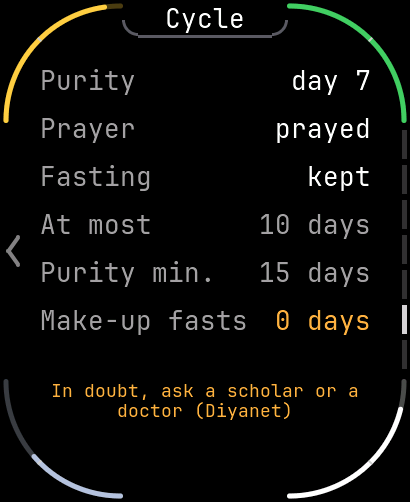
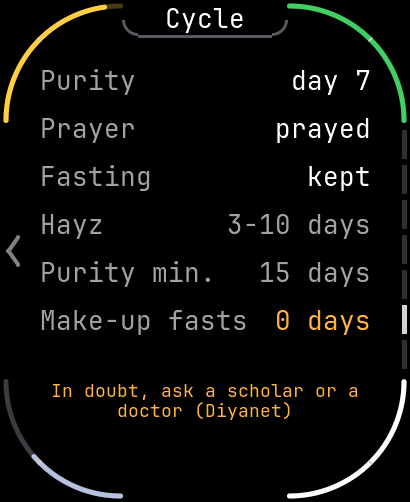
Fix the cycle page's open minors
- Adolescent mode: no intercourse marks on the spiral and the calendar,
  the legend's first four rows only.
- The spiral names 90+ days without a period in place of the pad hint.
- Hayız part: one row "Hayz 3-10 days" (the shortest was missing).
- A wrong or unrepeated PIN shows "Wrong PIN" until the next key.
- The face's cycle icon is drawn again when the period's days or the
  fertile window change, not only its start.
- The screenshots' scene no longer saves its cycle log over the
  owner's (CycleStore::holdSaves); "B newpin" opens the new PIN's entry.
- The tide curve uses lv_obj_set_clickable (no deprecation warning).

Verified on the board (3C:DC, scene): wrong PIN after a mismatched
repeat, adolescent spiral and legend, hayız part in both languages;
host tests pass from a clean build-host; dev build without warnings.

Changed region(s): [[0.0878, 0.4183, 0.3512, 0.4781], [0.9659, 0.747, 0.9951, 0.8068], [0.5561, 0.4183, 0.5854, 0.4781]]

diff --git a/main/CycleParts.cpp b/main/CycleParts.cpp
@@ -155,7 +155,8 @@ void CyclePages::drawSpiral( lv_layer_t *layer, const lv_area_t &area ) const
         const bool fertile = cycleDay > 0 && s.fertileFirst > 0 && cycleDay >= s.fertileFirst && cycleDay <= s.fertileLast &&
                              ( s.nextMean == 0 || day - start < s.nextMean );
         spiralPoint( t, 18, x, y, angle );
-        if ( t <= 0 && ( m_log->get( day ) & CycleLog::Intercourse ) ) {
+        // The adolescent mode shows no intercourse marks (a log may keep older ones).
+        if ( !s.teen && t <= 0 && ( m_log->get( day ) & CycleLog::Intercourse ) ) {
             const lv_color_t colour = fertile ? CycleDraw::blue() : CycleDraw::grey();
             CycleDraw::spermEgg( layer, x, y, static_cast<int>( angle ), faded( colour, share ) );
         } else if ( fertile ) {
@@ -201,8 +202,11 @@ void CyclePages::drawSpiral( lv_layer_t *layer, const lv_area_t &area ) const
     shortDate( m_today, line1, sizeof( line1 ) );
     centred( layer, &jetbrains_mono_18, white(), s_cy + 40, line1 );
 
-    // Below: the carry-a-pad hint, the estimate's warning, the next period's range with a drop.
-    if ( s.carryPad ) {
+    // Below: 90+ days without a period or the carry-a-pad hint, the estimate's warning, the next
+    // period's range with a drop.
+    if ( s.warnings & Cycle::NoPeriod90 ) {
+        centred( layer, &jetbrains_mono_16, CycleDraw::amber(), 392, Language::text( Language::CycleNoPeriod90 ) );
+    } else if ( s.carryPad ) {
         centred( layer, &jetbrains_mono_16, CycleDraw::amber(), 392, Language::text( Language::CycleCarryPad ) );
     }
     // Two lines between the lower gauges (wrapped by the label).
@@ -305,7 +309,7 @@ void CyclePages::drawCalendar( lv_layer_t *layer, const lv_area_t &area ) const
         } else if ( day > m_today && s.nextEarly > 0 && start > 0 && day - start >= s.nextEarly && day - start <= s.nextLate ) {
             kinds[count++] = 2;  // an estimated drop
         }
-        if ( value & CycleLog::Intercourse ) {
+        if ( !s.teen && ( value & CycleLog::Intercourse ) ) {
             kinds[count++] = 3;
         } else if ( fertile ) {
             kinds[count++] = 4;
@@ -569,8 +573,9 @@ void CyclePages::drawHayiz( lv_layer_t *layer, const lv_area_t &area ) const
          Language::text( hayz ? Language::HayizPrayerNot : Language::HayizPrayerYes ), white() );
     row( layer, 160, Language::text( Language::HayizFasting ),
          Language::text( hayz ? Language::HayizFastNot : Language::HayizFastYes ), white() );
-    snprintf( value, sizeof( value ), Language::text( Language::HistoryDays ), 10 );
-    row( layer, 208, Language::text( Language::HayizMost ), value, textGrey() );
+    // Diyanet: a hayz lasts 3 to 10 days.
+    snprintf( value, sizeof( value ), Language::text( Language::HayizRange ), 3, 10 );
+    row( layer, 208, Language::text( Language::HayizNow ), value, textGrey() );
     snprintf( value, sizeof( value ), Language::text( Language::HistoryDays ), 15 );
     row( layer, 256, Language::text( Language::HayizLeast ), value, textGrey() );
     snprintf( value, sizeof( value ), Language::text( Language::HistoryDays ), Hayiz::balance( *m_log ) );
@@ -711,7 +716,9 @@ void CyclePages::drawLegend( lv_layer_t *layer, const lv_area_t &area ) const
     const Language::Text names[8] = { Language::LegendPast,       Language::LegendFuture,     Language::LegendBleeding,
                                       Language::LegendBleedingEst, Language::LegendFertile,   Language::LegendFertileEst,
                                       Language::LegendOvulation,  Language::LegendIntercourse };
-    for ( int i = 0; i < 8; ++i ) {
+    // The adolescent mode has no fertile window and no intercourse: the first four rows only.
+    const int rows = m_state.teen ? 4 : 8;
+    for ( int i = 0; i < rows; ++i ) {
         const int cy = y + 14;
         switch ( i ) {
         case 0:
@@ -795,7 +802,9 @@ void CyclePages::drawPinHeader( lv_layer_t *layer, const lv_area_t &area ) const
         centred( layer, &jetbrains_mono_26, white(), 76, m_typed[0] != '\0' ? m_typed : ( m_input == FirstPeriod ? "2025.9" : "0" ) );
     }
     // C on an empty entry goes back (but from the PIN that unlocks the page).
-    if ( m_input != CheckPin ) {
+    if ( m_pinWrong && waitLeftSeconds() <= 0 ) {
+        centred( layer, &jetbrains_mono_18, CycleDraw::amber(), 112, Language::text( Language::PinWrong ) );
+    } else if ( m_input != CheckPin ) {
         centred( layer, &jetbrains_mono_14, textGrey(), 112, Language::text( Language::PinHint ) );
     }
     (void)area;

diff --git a/main/CyclePages.cpp b/main/CyclePages.cpp
@@ -542,6 +542,7 @@ void CyclePages::openInput( Input input )
     openOverlay( PinOverlay );
     m_input = input;
     m_typed[0] = '\0';
+    m_pinWrong = false;
     m_pinHeader = lv_obj_create( m_overlay );
     lv_obj_remove_style_all( m_pinHeader );
     lv_obj_set_size( m_pinHeader, Panel::WIDTH, s_keypadY - 4 );
@@ -567,6 +568,7 @@ void CyclePages::onKey( void *user, Calculator::Key key )
     if ( self->waitLeftSeconds() > 0 ) {
         return;
     }
+    self->m_pinWrong = false;
     const size_t length = strlen( self->m_typed );
     const bool pin = self->m_input <= OldPinChange;
     const size_t limit = pin ? 4 : 7;
@@ -610,6 +612,7 @@ void CyclePages::submitInput()
                 s_pinWaitUntil = clockSeconds() + s_pinWaitSeconds;
             }
             m_typed[0] = '\0';
+            m_pinWrong = true;
             lv_obj_invalidate( m_pinHeader );
             return;
         }
@@ -638,6 +641,7 @@ void CyclePages::submitInput()
         if ( hash( m_typed ) != m_firstPin ) {
             m_input = NewPin;
             m_typed[0] = '\0';
+            m_pinWrong = true;
             lv_obj_invalidate( m_pinHeader );
             return;
         }
@@ -691,6 +695,11 @@ bool CyclePages::press( const char *name )
     if ( strncmp( name, "pin ", 4 ) == 0 && m_open == PinOverlay ) {
         snprintf( m_typed, sizeof( m_typed ), "%s", name + 4 );
         submitInput();
+        return true;
+    }
+    // The new PIN's entry, as the settings part's PIN row: "B pin" types into it.
+    if ( strcmp( name, "newpin" ) == 0 && interactive() ) {
+        openInput( NewPin );
         return true;
     }
     if ( strcmp( name, "teen" ) == 0 ) {

diff --git a/main/Language.cpp b/main/Language.cpp
@@ -475,6 +475,7 @@ static const char *s_texts[][2] = {
     { "long cycle", "uzun döngü" },
     { "long bleeding", "uzun kanama" },
     { "90+ days without", "90+ gündür yok" },
+    { "No period for 90+ days", "90+ gündür adet yok" },
     { "heavy bleeding", "yoğun kanama" },
     { "bleeding between", "ara kanama" },
     { "talk to a doctor", "bir hekime danış" },
@@ -497,7 +498,7 @@ static const char *s_texts[][2] = {
     { "prayed", "kılınır" },
     { "not kept", "tutulmaz" },
     { "kept", "tutulur" },
-    { "At most", "En çok" },
+    { "%d-%d days", "%d-%d gün" },
     { "Purity min.", "En az temizlik" },
     { "Make-up fasts", "Kaza orucu" },
     { "In doubt, ask a scholar or a doctor (Diyanet)", "Şüphede bir din görevlisine ya da hekime danış (Diyanet)" },

diff --git a/main/FacePage.cpp b/main/FacePage.cpp
@@ -264,7 +264,11 @@ void FacePage::update( const FaceText::Inputs &inputs )
         lv_obj_invalidate( m_wifiIcon );
     }
     if ( m_root != nullptr && inputs.table != nullptr ) {
-        const int key = ( inputs.table->cycleStart * 64 + inputs.day ) * 2 + ( inputs.cycleColour ? 1 : 0 );
+        // Every value the icon draws: an edited period changes its days, not only its start.
+        const FaceTable &t = *inputs.table;
+        int64_t key = static_cast<int64_t>( t.cycleStart ) * 32 + inputs.day;
+        key = ( key * 512 + t.cycleLength ) * 64 + t.cyclePeriod;
+        key = ( ( key * 128 + t.fertileFirst ) * 128 + t.fertileLast ) * 2 + ( inputs.cycleColour ? 1 : 0 );
         if ( key != m_cycleKey ) {
             m_cycleKey = key;
             lv_obj_invalidate( m_cycleIcon );

diff --git a/main/FacePage.h b/main/FacePage.h
@@ -66,7 +66,7 @@ private:
     lv_obj_t *m_wifiIcon = nullptr;  // FaceConfig::WifiIcon, from m_inputs.wifiOn
     lv_obj_t *m_tideIcon = nullptr;  // FaceConfig::TideIcon, from the table's tide
     lv_obj_t *m_cycleIcon = nullptr;  // FaceConfig::CycleIcon, from the face table's cycle
-    int m_cycleKey = 0;               // what the cycle icon shows, to draw it again on a change
+    int64_t m_cycleKey = 0;               // what the cycle icon shows, to draw it again on a change
     int m_tideKey = -1;               // the tide icon's level in percent (-1: none), likewise
     FaceConfig::Page m_page = {};
     FaceText::Inputs m_inputs = {};

diff --git a/main/SkyPages.cpp b/main/SkyPages.cpp
@@ -134,7 +134,7 @@ void SkyPages::build( lv_obj_t *sunPage, lv_obj_t *twilightPage, lv_obj_t *praye
         lv_obj_remove_style_all( m_tideCurve );
         lv_obj_set_pos( m_tideCurve, 40, 98 );
         lv_obj_set_size( m_tideCurve, 330, 112 );
-        lv_obj_remove_flag( m_tideCurve, LV_OBJ_FLAG_CLICKABLE );
+        lv_obj_set_clickable( m_tideCurve, false );
         lv_obj_add_event_cb( m_tideCurve, onDrawTideCurve, LV_EVENT_DRAW_MAIN, this );
         m_tideMessage = lv_label_create( tidePage );
         lv_obj_set_style_text_font( m_tideMessage, &jetbrains_mono_26, 0 );

diff --git a/main/CycleStore.cpp b/main/CycleStore.cpp
@@ -6,6 +6,7 @@
 static const char *TAG = "cycle";
 static const char *s_namespace = "cycle";
 static const char *s_key = "log";
+static bool s_held = false;
 
 void CycleStore::load( CycleLog &log )
 {
@@ -21,8 +22,16 @@ void CycleStore::load( CycleLog &log )
     nvs_close( handle );
 }
 
+void CycleStore::holdSaves()
+{
+    s_held = true;
+}
+
 esp_err_t CycleStore::save( const CycleLog &log )
 {
+    if ( s_held ) {
+        return ESP_OK;
+    }
     nvs_handle_t handle = 0;
     esp_err_t err = nvs_open( s_namespace, NVS_READWRITE, &handle );
     if ( err == ESP_OK ) {

diff --git a/main/Language.h b/main/Language.h
@@ -484,6 +484,7 @@ public:
         WarnLong,
         WarnLongBleeding,
         WarnNoPeriod,
+        CycleNoPeriod90, // the spiral's line below the date
         WarnHeavy,
         WarnBetween,
         WarnDoctor,
@@ -506,7 +507,7 @@ public:
         HayizPrayerYes,
         HayizFastNot,
         HayizFastYes,
-        HayizMost,
+        HayizRange,     // "%d-%d days": the shortest and longest hayz
         HayizLeast,
         HayizMakeUp,
         HayizAsk,

diff --git a/main/CyclePages.h b/main/CyclePages.h
@@ -140,6 +140,7 @@ private:
     Overlay m_open = NoOverlay;
     Input m_input = CheckPin;
     char m_typed[12] = {};
+    bool m_pinWrong = false;     // shown until the next key
     uint32_t m_firstPin = 0;     // the new PIN's hash while it is repeated
     // The wrong PINs and the wait after three are kept in RTC memory (CyclePages.cpp): a PWR
     // press and a wake must not clear them.

diff --git a/main/main.cpp b/main/main.cpp
@@ -477,6 +477,7 @@ static bool pollHostCommands()
         }
         if ( s_hostLine[0] == 'D' && s_hostLine[1] == '\0' ) {
             s_scene = true;
+            CycleStore::holdSaves();
             sceneCycleLog();
             // The published pictures show the default face pages and corner gauges, in RAM only
             // (FaceStore keeps the owner's; only the portal saves them).

diff --git a/main/CycleStore.h b/main/CycleStore.h
@@ -13,4 +13,7 @@ public:
     static void load( CycleLog &log );
     static esp_err_t save( const CycleLog &log );
     static esp_err_t erase();
+    // The screenshots' scene (development "D") keeps its log in RAM: saves are skipped until the
+    // next reset, so that a tap or "B teen" cannot write it over the owner's.
+    static void holdSaves();
 };

diff --git a/CLAUDE.md b/CLAUDE.md
@@ -528,7 +528,7 @@ resets the watch instead of only warning; development command "W" tests it). Rea
   `Calculator::keyForChar`, kind, "unit <n>", level, hold, input, beat, bar, cpr, "tempo <bpm>"; observing page: mode, "drag <min>", now, hold,
   flip, "scroll <px>", eyepiece, calc, body, aim, satellite),
   "Y <item> <value>" sets a setting by its number (as the portal; "Y 61 0" shows the cycle
-  page's parts), "B entry <flow> <intercourse>", "B pin <digits>", "B teen", "B legend",
+  page's parts), "B entry <flow> <intercourse>", "B newpin" (the new PIN's entry), "B pin <digits>", "B teen", "B legend",
   "B month <step>" on the cycle page, "R <s>" a test
   alarm, "K <n> <text>" defines an alarm, "Q" ends active mode as without the always-on face,
   "H" makes the next PWR wake a phantom (it must go back to sleep), "W" starves the idle task
